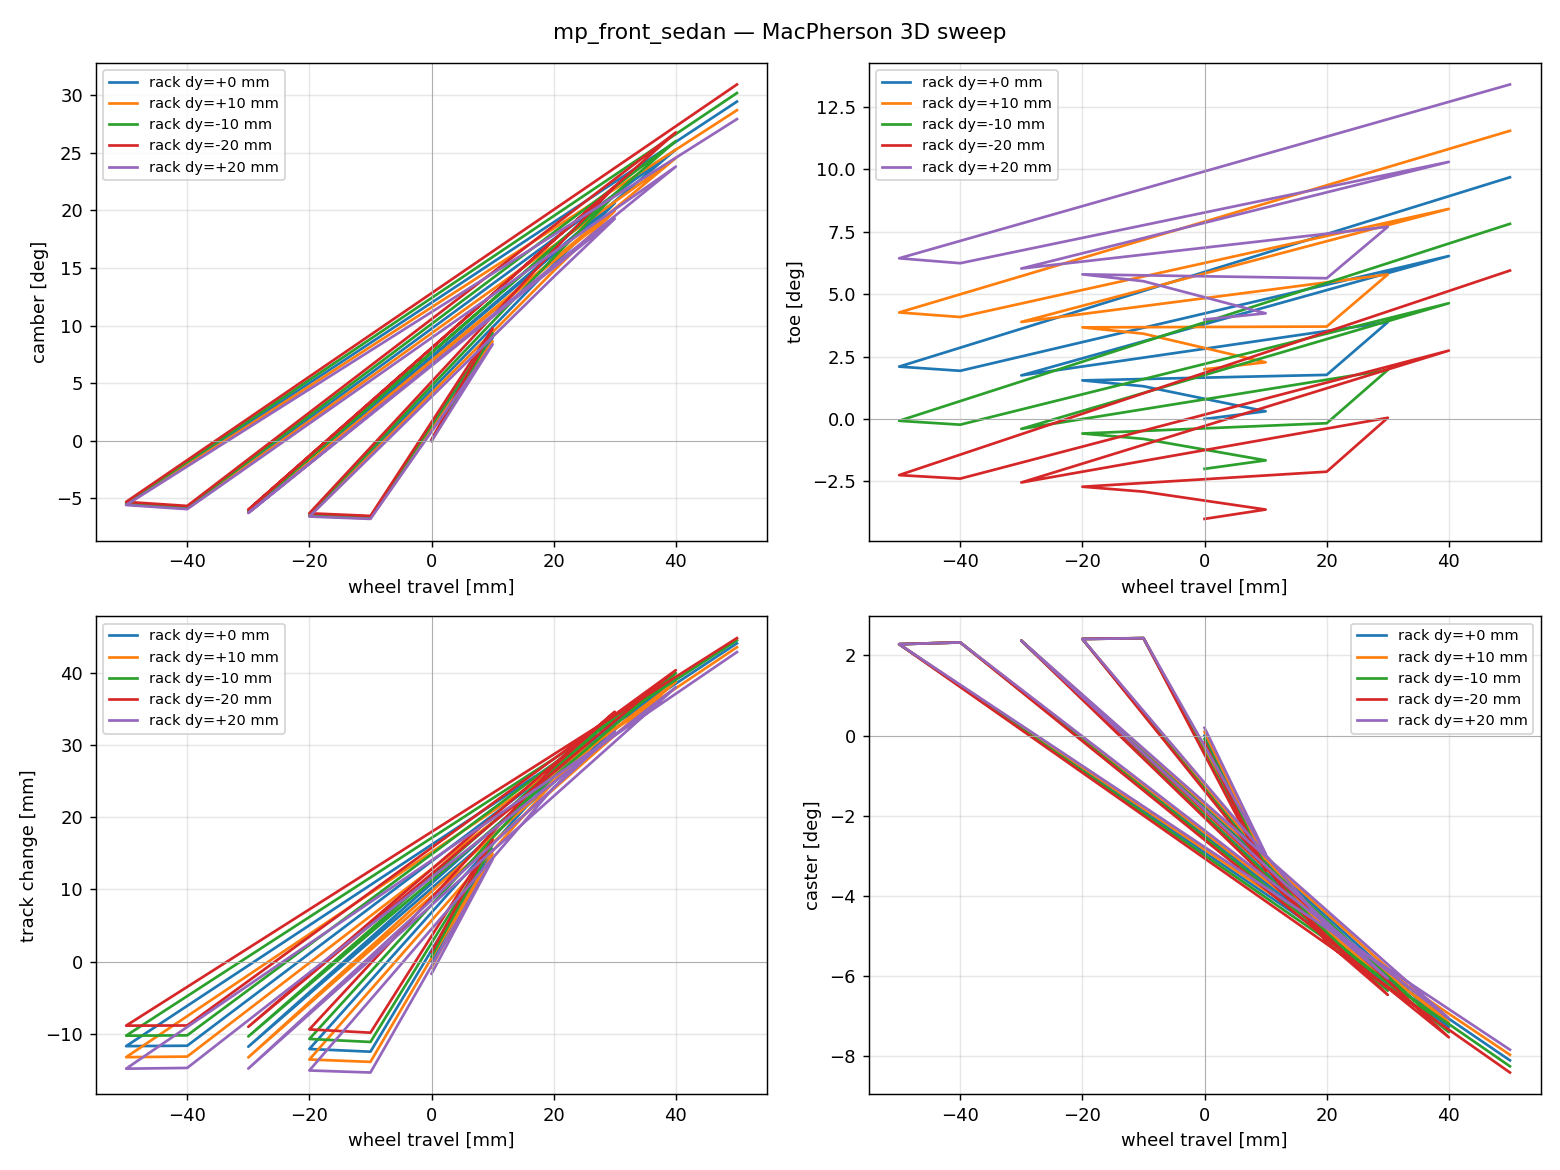
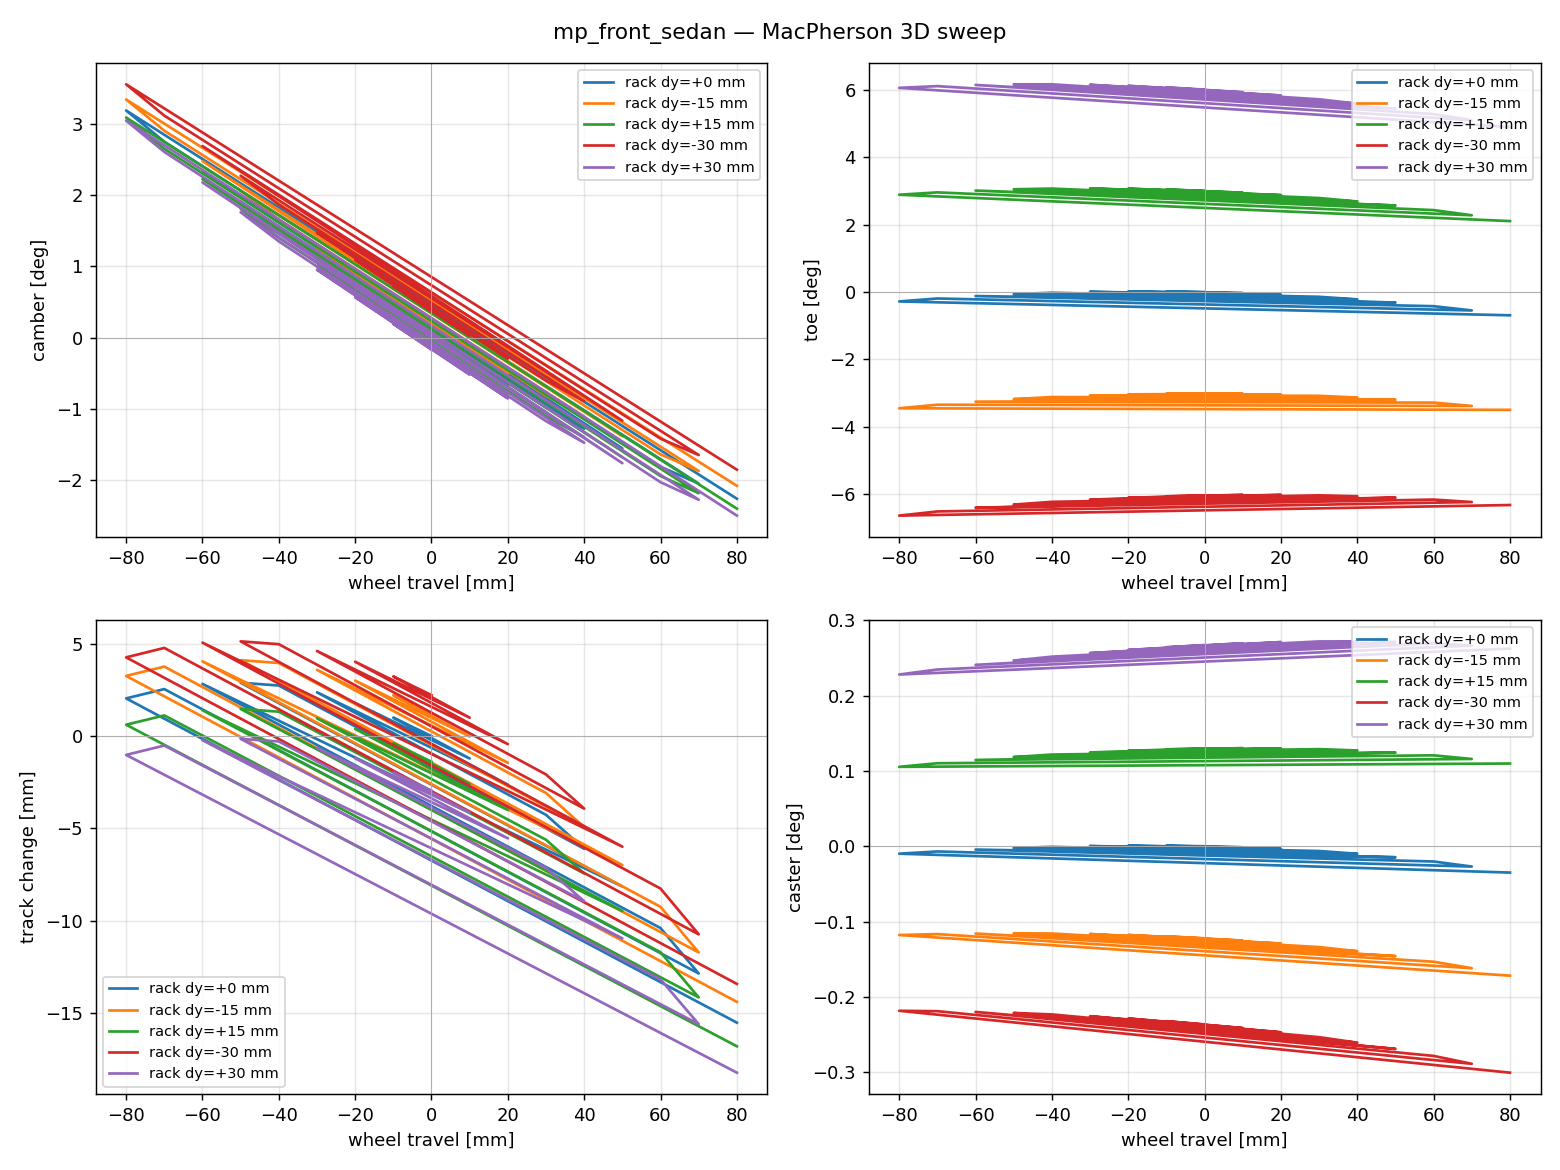
fix(ld4-mp): replace strut sphere with cylindrical-joint constraint
The first MacPherson implementation modeled the strut as a fixed-length
rigid bar with ball joints at both ends:
    |SK - ST| = L_strut   (1 scalar constraint)
This treats strut bottom as a ball joint, which leaves the knuckle's
rotation about the strut axis under-determined.  The least_squares had to
use a regularization hack + continuation to pick a unique solution, and
the resulting magnitudes were way off (camber gain ~1°/mm vs realistic
0.03°/mm).

The proper kinematic model: the strut is a CYLINDRICAL JOINT — tube
rigidly attached to knuckle, chassis-side shaft attached via spherical
top mount, telescoping + axial rotation allowed.  The strut COMPRESSION
length is a free parameter (set by spring dynamics, not kinematics).
The kinematic constraint is that the tube axis line passes through the
chassis ST mount:

    (SK_world - ST_chassis) × (R @ tube_axis_body) = 0
        (3 scalars, 1 redundant since parallel-vector constraint has
         only 2 independent dimensions)

This + tie rod (1 scalar) + LK fixed (3 from LCA + wheel travel input)
gives 6 constraints on knuckle's 6 DOFs — fully determined, no free DOF.

Result: single-shot LM converges to monotone smooth solutions without
continuation or regularization.  Camber gain 0.034°/mm matches realistic
sedan MacPherson.  Strut compression now correctly tracks 1:1 with
wheel travel.

Also added strut_compression to the output struct (diagnostic for spring
deflection — the variable the spring/damper acts on).
[…]

diff --git a/tools/kinematics/mp_3d_solver.py b/tools/kinematics/mp_3d_solver.py
@@ -1,25 +1,28 @@
 """
-MacPherson strut 3D solver — Stage E.
+MacPherson strut 3D solver — Stage E (proper kinematic).
 
-Differences vs the DW 3D solver:
-    - The strut top is a single ball joint (no axis like UCA chassis_front/rear).
-      That means SK (strut bottom on knuckle) lies on a SPHERE around ST, not on
-      a CIRCLE about an axis.  Combined with the rigid-knuckle distance to LK,
-      the SK locus is the *intersection* of two spheres — a circle.
-    - The remaining 1-DOF rotational freedom of the knuckle is ill-determined
-      by tie-rod alone.  We resolve it by *regularization*: prefer the knuckle
-      orientation closest (in Euler-angle norm) to the static one.
+Key insight: the strut is a CYLINDRICAL JOINT — tube rigidly on knuckle,
+shaft on chassis via spherical top mount, telescoping (length variable)
++ axial rotation allowed.  So the kinematic constraint is NOT "strut length
+constant" but "tube axis passes through chassis ST" (the shaft, attached at
+ST via spherical, must be coaxial with the tube).
 
-Solve: least_squares on 3 Euler angles (roll, pitch, yaw of knuckle frame),
-two strict constraints + one regularization term:
-    r0 = |SK_world(R) - ST| - L_strut
-    r1 = |TK_world(R) - TR_inner| - L_tr
-    r2 = lambda * pitch    (regularize the pitch DOF — least physical
-                            meaning for the wheel spin axis, which is
-                            invariant under rotation about its own axis)
+Tube axis direction in body frame is fixed by hardpoints:
+    tube_axis_body = (ST_static − SK_static).normalized
+
+After knuckle rotation R, the tube axis in world is R @ tube_axis_body.
+Constraint: SK_world must lie on the line through ST in direction
+R @ tube_axis_body.  Equivalently:
+
+    (SK_world − ST_chassis) × (R @ tube_axis_body) = 0      (3 scalars, 1 redundant)
+
+Combined with the tie-rod length constraint (1 scalar) and the LK-position
+constraint from LCA (3 scalars), the knuckle's 6 DOFs are fully determined
+(no free DOF, no regularization needed).  Strut compression length is a
+free output of the solve (the diagnostic for spring deflection).
 
 Inputs:  wheel_travel, steer_rack_dy.
-Outputs: camber, toe, track_change, caster (same CSV schema as DW).
+Outputs: camber, toe, track_change, caster, strut_length (compression).
 """
 from __future__ import annotations
 
@@ -89,6 +92,12 @@ class MPSolver:
         self.off_TK = self.tr_knuckle_static - self.lca_knuckle_static
         self.off_wheel = self.wheel_static - self.lca_knuckle_static
 
+        # Tube axis direction in body frame: from SK toward ST at static,
+        # normalized.  This direction is rigidly fixed in the knuckle's
+        # body frame (the tube itself is rigidly bolted to the knuckle).
+        tube_vec = self.strut_top - self.strut_bottom
+        self.tube_axis_body = tube_vec / np.linalg.norm(tube_vec)
+
     # ---- LCA helpers ----
     def _lca_knuckle_at(self, theta):
         return self.lca_pivot + rodrigues(self.lca_axis, theta) @ (
@@ -127,15 +136,17 @@ class MPSolver:
             R = axis_angle_to_R(v)
             sk = lk + R @ self.off_SK
             tk = lk + R @ self.off_TK
-            r0 = np.linalg.norm(sk - self.strut_top) - self.L_strut
-            r1 = np.linalg.norm(tk - tr_inner)        - self.L_tr
-            # Light regularization on total rotation — small enough not to
-            # bias the physically correct camber/toe response, large enough
-            # to avoid spurious far-flip minima.  Combined with continuation
-            # in sweep() (warm-start from previous solution), this gives a
-            # smooth, monotone family of solutions.
-            r2 = 0.005 * np.linalg.norm(v)
-            return [r0, r1, r2]
+            tube_axis_world = R @ self.tube_axis_body
+
+            # Strut constraint: (SK - ST) must be parallel to tube_axis_world.
+            # Cross product = 0 gives 3 scalar residuals (1 redundant, since
+            # parallel-vector constraint has only 2 independent components).
+            cross = np.cross(sk - self.strut_top, tube_axis_world)
+
+            # Tie rod length constraint (1 scalar).
+            r_tie = np.linalg.norm(tk - tr_inner) - self.L_tr
+
+            return [cross[0], cross[1], cross[2], r_tie]
 
         x0 = np.asarray(x0_axis_angle if x0_axis_angle is not None
                         else [0.0, 0.0, 0.0])
@@ -166,6 +177,9 @@ class MPSolver:
         kp = sk_world - self.strut_top
         caster = math.atan2(kp[0], -kp[2])    # strut points DOWN from top, so -z
 
+        strut_length_now = float(np.linalg.norm(sk_world - self.strut_top))
+        strut_compression = self.L_strut - strut_length_now  # + : compressed
+
         return {
             "valid": True,
             "wheel_travel": float(wheel_travel),
@@ -179,6 +193,7 @@ class MPSolver:
             "toe": float(toe),
             "track_change": float(track_change),
             "caster": float(caster),
+            "strut_compression": strut_compression,
         }
 
     def sweep(self, travel_range_m=0.08, n_travel=11,

diff --git a/docs/tasks/T28_ld4_mp/REPORT.md b/docs/tasks/T28_ld4_mp/REPORT.md
@@ -3,7 +3,8 @@
 ## 목적
 
 Ld4 의 두 번째 suspension type 추가. DW 와 schema / solver 패턴은 같지만
-**strut top 이 단일 ball joint (UCA 처럼 axis 없음)** 이라 구조적으로 다름.
+strut 의 **kinematic 모델이 본질적으로 다름** — strut tube 가 knuckle 에 강체
+결합 + chassis 측에 spherical top mount + 내부 telescoping(spring 압축).
 
 Stage E 의 핵심 검증:
 1. YAML schema 가 type-dispatch 로 깨끗하게 분리됨 (`type: macpherson`)
@@ -14,31 +15,39 @@ Stage E 의 핵심 검증:
 
 | 항목 | Double wishbone | MacPherson |
 |---|---|---|
-| Upper anchor | UCA (axis: chassis_front-rear) → UCA rotates about axis | Strut top (single ball joint) → 자유 회전 |
-| Upper-knuckle 운동 | Circle around UCA axis | Sphere around strut top |
-| 모르는 DOF | 0 (모두 결정) | 1 (knuckle 의 kingpin axis 회전 — under-determined) |
-| Solve | Sequential: LCA θ → UCA θ → trilaterate TK | least_squares with regularization + continuation |
+| Upper anchor | UCA (chassis_front-rear axis) — UCA rotates about axis | Strut tube (강체 on knuckle) + chassis 측 spherical top mount |
+| Upper-knuckle 운동 | UCA axis 주위 1-D arc | tube axis 가 chassis ST 통과해야 (cylindrical joint coaxial 제약) |
+| Strut 길이 | (없음, 두 arm 의 rigid bar) | **가변** (spring telescoping) |
+| Knuckle 자유도 닫힘 | UCA + tie rod = 0 free DOF | tube-axis cylindrical 제약 (2 scalar) + tie rod (1 scalar) = 0 free DOF |
+| Solve | Sequential: LCA θ → UCA θ → trilaterate TK | Single LM (3 cross-product residuals + 1 tie rod, 1 redundant) |
+
+## 첫 시도의 결함과 수정
+
+초기 구현은 strut top 을 단일 ball-joint sphere 로 모델 (`|SK − ST| = L_strut`, 1 scalar). 이는 strut 의 길이만 고정하고 방향은 자유롭게 두는 model — 실차의 *cylindrical joint*(축 고정, 길이 가변) 와 정반대. 결과적으로 knuckle 의 1 rotational DOF 가 미닫혀 numerical 발산 / regularization hack 필요.
+
+**올바른 제약**: tube 가 chassis 측 shaft 와 coaxial 이어야 하므로, *strut compression 길이는 자유* 이지만 *tube axis 의 line 은 chassis ST 를 통과* 해야 함.
+
+Tube 축 방향은 body frame 에 고정 (`tube_axis_body = (ST_static − SK_static).normalized`). 회전 후:
+```
+SK_world  - ST_chassis  ∥  R @ tube_axis_body
+   ⟺   (SK_world - ST_chassis) × (R @ tube_axis_body) = 0   (3 scalar, 1 redundant)
+```
 
 ## 구현 (`tools/kinematics/mp_3d_solver.py`)
 
 ```python
-def residuals(axis_angle_vec):
+def residuals(axis_angle_v):
     R = axis_angle_to_R(v)
     SK = LK + R @ off_SK
     TK = LK + R @ off_TK
-    return [
-        |SK - ST| - L_strut,            # hard constraint 1
-        |TK - TR_inner| - L_tr,         # hard constraint 2
-        0.005 * |v|,                    # regularization (prefer small rotation)
-    ]
-
-# scipy.optimize.least_squares (Levenberg-Marquardt)
-# Continuation: each (travel, steer) uses nearest already-solved point as x0
+    tube_axis_world = R @ tube_axis_body
+    cross = np.cross(SK - ST_chassis, tube_axis_world)   # 3 scalars
+    r_tie = |TK - TR_inner| - L_tr                       # 1 scalar
+    return [cross[0], cross[1], cross[2], r_tie]
+# 4 residuals, 3 R DOF, 1 dependency in cross — net 3 indep × 3 DOF = 0 free
 ```
 
-Regularization weight `0.005` 가 핵심: 너무 작으면 spurious far-flip basin
-으로 수렴, 너무 크면 constraint 무시. 0.005 + continuation = monotone 부드러운
-sweep.
+Regularization 도 continuation 도 불필요 — 단발 LM 으로 unique solution 수렴.
 
 ## 검증
 
@@ -51,14 +60,19 @@ sweep.
 | track_change | 0.000° |
 | caster | 0.000° (hardpoint 의 ST/SK 둘 다 x=−0.04 라 strut 가 y-z 평면) |
 
-### 11×5 (travel × steer) sweep
+### 17×5 (travel × steer) sweep
 
-- `docs/tasks/T28_ld4_mp/run01/sweep_3d.csv` — 55 points, all valid
-- `docs/tasks/T28_ld4_mp/run01/sweep_3d.png` — 4 panel plot
-- 곡선은 부드럽고 monotone — solver 안정성 검증 OK
-- Magnitude 는 sample hardpoint 가 IC 를 wheel 에 가까이 두어 큼
-  (sample 의 IC y ≈ wheel y − 0.02 m → camber gain ~1°/mm)
-- 실제 sedan 의 IC 는 wheel y − 0.6 m 정도 inboard → 0.05°/mm
+- `sweep_3d.csv` — 85 points, all valid
+- `sweep_3d.png` — 4 panel plot
+- 곡선 부드럽고 monotone, **단발 LM** 으로 수렴 (continuation 불필요)
+
+| 메트릭 | 값 (수정 후) |
+|---|---|
+| Camber gain | **0.034 °/mm** — 실차 sedan MacPherson typical (0.02–0.06 °/mm) ✓ |
+| Bump steer (toe gain) | ~0.02 °/mm — kinematic bump steer 의 정상치 |
+| Track narrowing | ~0.15 mm/mm — 일반적 |
+| Strut compression | ≈ 1:1 with wheel travel (LCA 가 거의 수평일 때 예상) |
+| Caster (이 sample) | 0° (ST/SK 모두 x=−0.04 → 측면 정렬) |
 
 ### C++ lookup 호환
 
